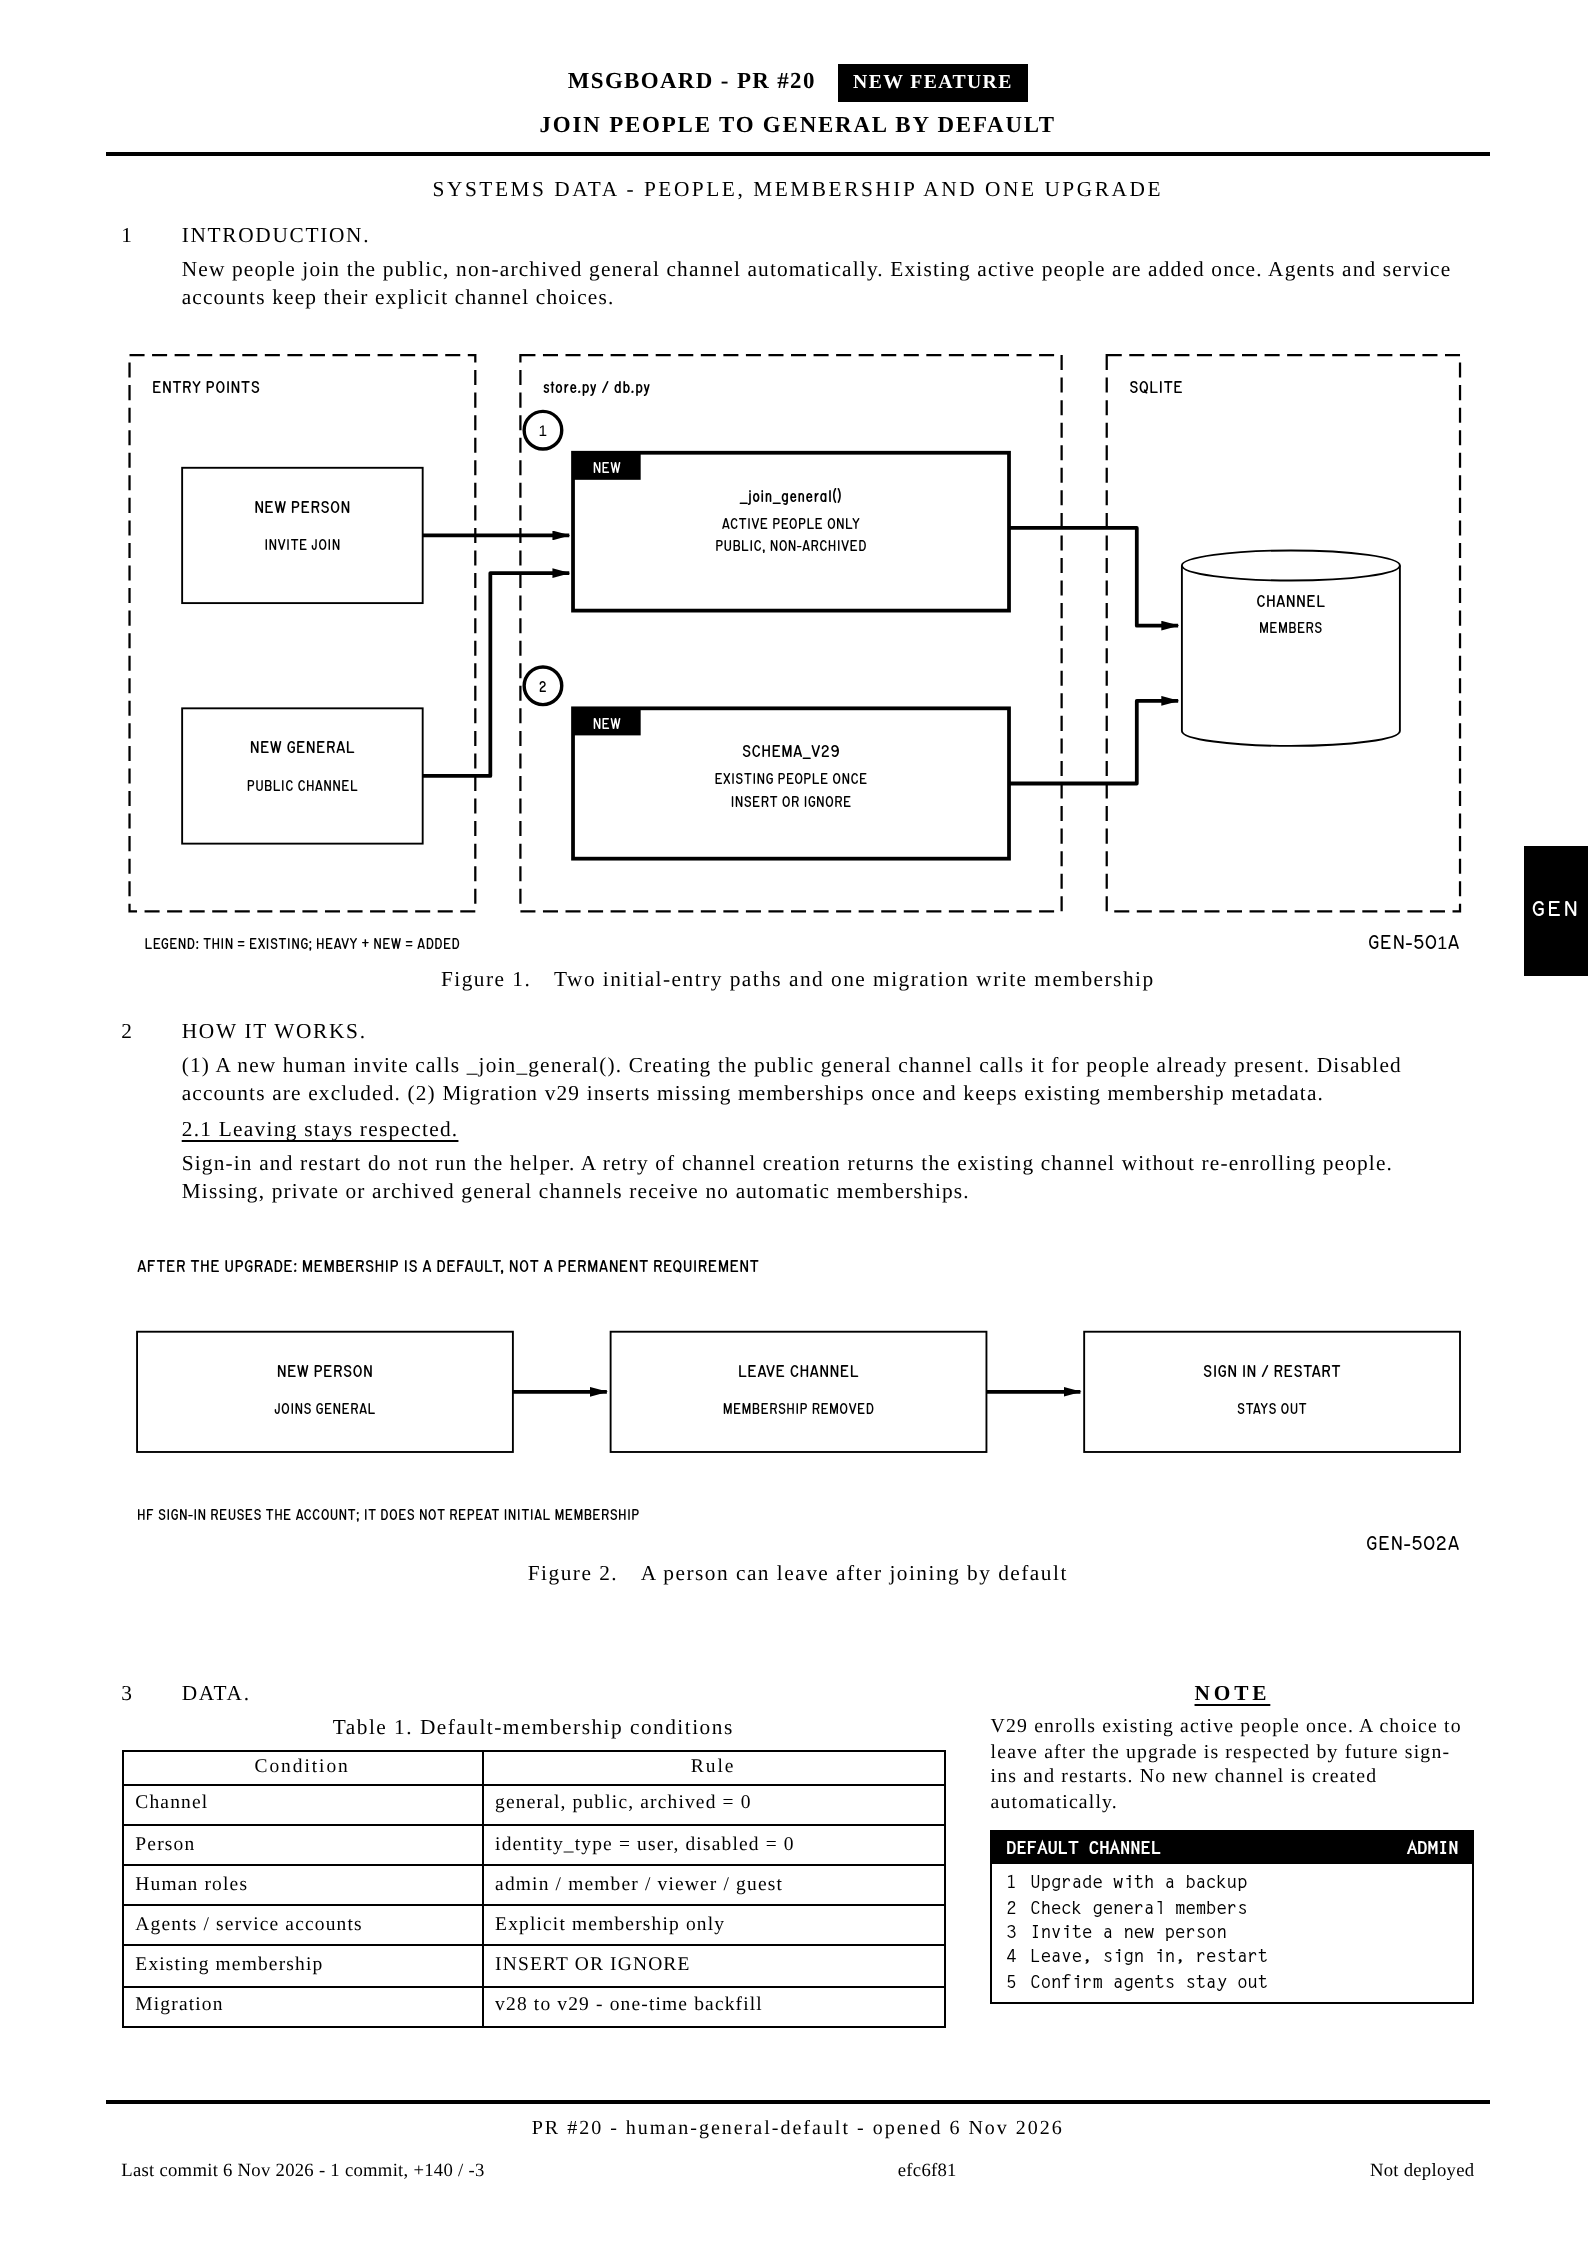
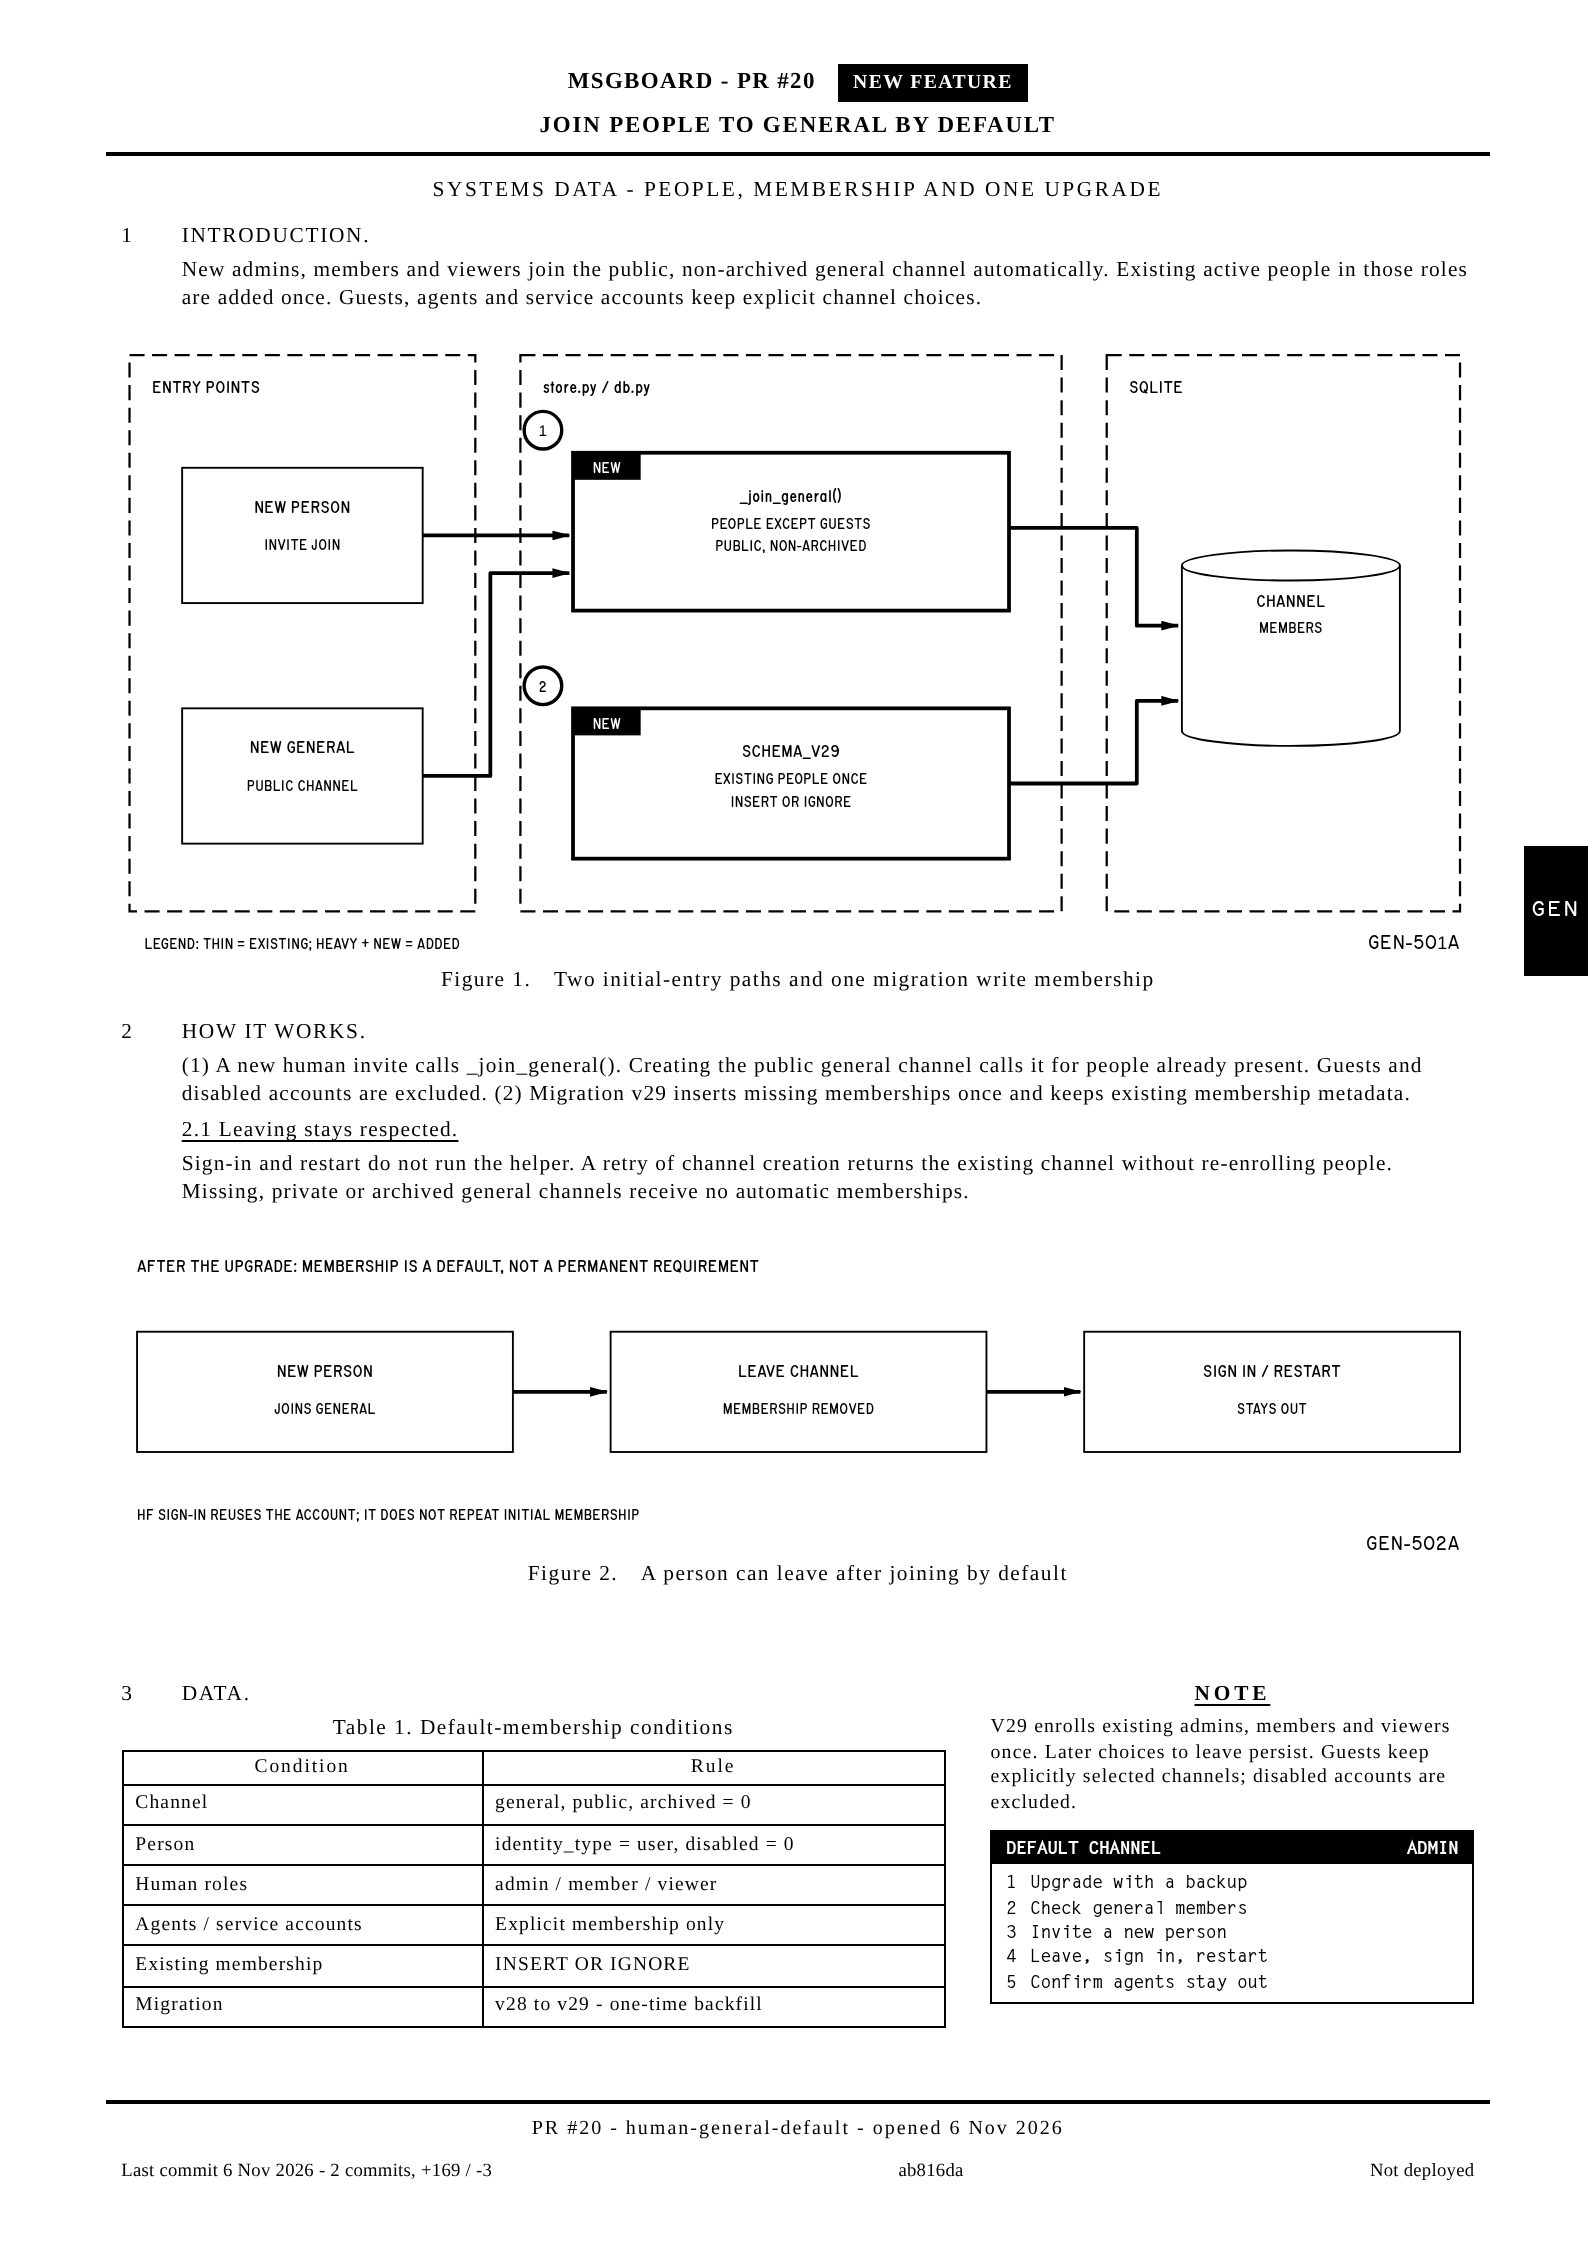
Clarify guest exclusion in PR 20 diagram

diff --git a/diagram/pr-20.html b/diagram/pr-20.html
@@ -142,12 +142,12 @@ html,body {background:#fff} :root{--paper:#fff} .head .tag{background:#000;color
 
 <div class="page"><header class="head"><div class="doc">MSGBOARD - PR #20 <span class="tag">NEW FEATURE</span></div><div class="title" style="margin-top:2mm">JOIN PEOPLE TO GENERAL BY DEFAULT</div><div class="rule"></div></header><div class="tab">GEN</div>
 <div class="opener">SYSTEMS DATA - PEOPLE, MEMBERSHIP AND ONE UPGRADE</div>
-<section class="para"><div class="num">1</div><div><h2>INTRODUCTION.</h2><p>New people join the public, non-archived general channel automatically. Existing active people are added once. Agents and service accounts keep their explicit channel choices.</p></div></section>
-<figure><svg viewBox="0 0 180 83" role="img" aria-label="Initial general membership and one-time backfill"><rect class="panel" x="1" y="2" width="46" height="74"/><text class="lbl" x="4" y="7" text-anchor="start">ENTRY POINTS</text><rect class="panel" x="53" y="2" width="72" height="74"/><text class="lbl" x="56" y="7" text-anchor="start">store.py / db.py</text><rect class="panel" x="131" y="2" width="47" height="74"/><text class="lbl" x="134" y="7" text-anchor="start">SQLITE</text><rect class="box old" x="8" y="17" width="32" height="18"/><text class="lbl" x="24.0" y="23" text-anchor="middle">NEW PERSON</text><text class="lbl-s" x="24.0" y="28" text-anchor="middle">INVITE JOIN</text><rect class="box old" x="8" y="49" width="32" height="18"/><text class="lbl" x="24.0" y="55" text-anchor="middle">NEW GENERAL</text><text class="lbl-s" x="24.0" y="60" text-anchor="middle">PUBLIC CHANNEL</text><rect class="box new" x="60" y="15" width="58" height="21"/><rect x="60" y="15" width="9" height="3.6" fill="#000"/><text class="tag" x="64.5" y="17.7" text-anchor="middle">NEW</text><text class="lbl" x="89.0" y="21.5" text-anchor="middle">_join_general()</text><text class="lbl-s" x="89.0" y="25.1" text-anchor="middle">ACTIVE PEOPLE ONLY</text><text class="lbl-s" x="89.0" y="28.1" text-anchor="middle">PUBLIC, NON-ARCHIVED</text><circle class="box" cx="56" cy="12" r="2.5"/><text class="lbl-s" x="56" y="12.8" text-anchor="middle">1</text><rect class="box new" x="60" y="49" width="58" height="20"/><rect x="60" y="49" width="9" height="3.6" fill="#000"/><text class="tag" x="64.5" y="51.7" text-anchor="middle">NEW</text><text class="lbl" x="89.0" y="55.5" text-anchor="middle">SCHEMA_V29</text><text class="lbl-s" x="89.0" y="59.1" text-anchor="middle">EXISTING PEOPLE ONCE</text><text class="lbl-s" x="89.0" y="62.1" text-anchor="middle">INSERT OR IGNORE</text><circle class="box" cx="56" cy="46" r="2.5"/><text class="lbl-s" x="56" y="46.8" text-anchor="middle">2</text><path class="box old" d="M141,30 L141,52 A14.5,2 0 0 0 170,52 L170,30"/><ellipse class="box old" cx="155.5" cy="30" rx="14.5" ry="2"/><text class="lbl" x="155.5" y="35.5" text-anchor="middle">CHANNEL</text><text class="lbl-s" x="155.5" y="39" text-anchor="middle">MEMBERS</text><polyline class="wa" style="stroke-width:.5" points="40,26 59.5,26"/><polyline class="wa" style="stroke-width:.5" points="40,58 49,58 49,31 59.5,31"/><polyline class="wa" style="stroke-width:.5" points="118,25 135,25 135,38 140.5,38"/><polyline class="wa" style="stroke-width:.5" points="118,59 135,59 135,48 140.5,48"/><text class="lbl-s" x="3" y="81" text-anchor="start">LEGEND: THIN = EXISTING; HEAVY + NEW = ADDED</text><text class="code" x="178" y="81" text-anchor="end">GEN-501A</text></svg><figcaption><span class="n">Figure 1.</span>Two initial-entry paths and one migration write membership</figcaption></figure>
-<section class="para" style="margin-top:3mm"><div class="num">2</div><div><h2>HOW IT WORKS.</h2><p>(1) A new human invite calls _join_general(). Creating the public general channel calls it for people already present. Disabled accounts are excluded. (2) Migration v29 inserts missing memberships once and keeps existing membership metadata.</p><h3>2.1 Leaving stays respected.</h3><p>Sign-in and restart do not run the helper. A retry of channel creation returns the existing channel without re-enrolling people. Missing, private or archived general channels receive no automatic memberships.</p></div></section>
+<section class="para"><div class="num">1</div><div><h2>INTRODUCTION.</h2><p>New admins, members and viewers join the public, non-archived general channel automatically. Existing active people in those roles are added once. Guests, agents and service accounts keep explicit channel choices.</p></div></section>
+<figure><svg viewBox="0 0 180 83" role="img" aria-label="Initial general membership and one-time backfill"><rect class="panel" x="1" y="2" width="46" height="74"/><text class="lbl" x="4" y="7" text-anchor="start">ENTRY POINTS</text><rect class="panel" x="53" y="2" width="72" height="74"/><text class="lbl" x="56" y="7" text-anchor="start">store.py / db.py</text><rect class="panel" x="131" y="2" width="47" height="74"/><text class="lbl" x="134" y="7" text-anchor="start">SQLITE</text><rect class="box old" x="8" y="17" width="32" height="18"/><text class="lbl" x="24.0" y="23" text-anchor="middle">NEW PERSON</text><text class="lbl-s" x="24.0" y="28" text-anchor="middle">INVITE JOIN</text><rect class="box old" x="8" y="49" width="32" height="18"/><text class="lbl" x="24.0" y="55" text-anchor="middle">NEW GENERAL</text><text class="lbl-s" x="24.0" y="60" text-anchor="middle">PUBLIC CHANNEL</text><rect class="box new" x="60" y="15" width="58" height="21"/><rect x="60" y="15" width="9" height="3.6" fill="#000"/><text class="tag" x="64.5" y="17.7" text-anchor="middle">NEW</text><text class="lbl" x="89.0" y="21.5" text-anchor="middle">_join_general()</text><text class="lbl-s" x="89.0" y="25.1" text-anchor="middle">PEOPLE EXCEPT GUESTS</text><text class="lbl-s" x="89.0" y="28.1" text-anchor="middle">PUBLIC, NON-ARCHIVED</text><circle class="box" cx="56" cy="12" r="2.5"/><text class="lbl-s" x="56" y="12.8" text-anchor="middle">1</text><rect class="box new" x="60" y="49" width="58" height="20"/><rect x="60" y="49" width="9" height="3.6" fill="#000"/><text class="tag" x="64.5" y="51.7" text-anchor="middle">NEW</text><text class="lbl" x="89.0" y="55.5" text-anchor="middle">SCHEMA_V29</text><text class="lbl-s" x="89.0" y="59.1" text-anchor="middle">EXISTING PEOPLE ONCE</text><text class="lbl-s" x="89.0" y="62.1" text-anchor="middle">INSERT OR IGNORE</text><circle class="box" cx="56" cy="46" r="2.5"/><text class="lbl-s" x="56" y="46.8" text-anchor="middle">2</text><path class="box old" d="M141,30 L141,52 A14.5,2 0 0 0 170,52 L170,30"/><ellipse class="box old" cx="155.5" cy="30" rx="14.5" ry="2"/><text class="lbl" x="155.5" y="35.5" text-anchor="middle">CHANNEL</text><text class="lbl-s" x="155.5" y="39" text-anchor="middle">MEMBERS</text><polyline class="wa" style="stroke-width:.5" points="40,26 59.5,26"/><polyline class="wa" style="stroke-width:.5" points="40,58 49,58 49,31 59.5,31"/><polyline class="wa" style="stroke-width:.5" points="118,25 135,25 135,38 140.5,38"/><polyline class="wa" style="stroke-width:.5" points="118,59 135,59 135,48 140.5,48"/><text class="lbl-s" x="3" y="81" text-anchor="start">LEGEND: THIN = EXISTING; HEAVY + NEW = ADDED</text><text class="code" x="178" y="81" text-anchor="end">GEN-501A</text></svg><figcaption><span class="n">Figure 1.</span>Two initial-entry paths and one migration write membership</figcaption></figure>
+<section class="para" style="margin-top:3mm"><div class="num">2</div><div><h2>HOW IT WORKS.</h2><p>(1) A new human invite calls _join_general(). Creating the public general channel calls it for people already present. Guests and disabled accounts are excluded. (2) Migration v29 inserts missing memberships once and keeps existing membership metadata.</p><h3>2.1 Leaving stays respected.</h3><p>Sign-in and restart do not run the helper. A retry of channel creation returns the existing channel without re-enrolling people. Missing, private or archived general channels receive no automatic memberships.</p></div></section>
 <figure><svg viewBox="0 0 180 43" role="img" aria-label="Leaving survives sign-in and restart"><text class="lbl" x="2" y="5" text-anchor="start">AFTER THE UPGRADE: MEMBERSHIP IS A DEFAULT, NOT A PERMANENT REQUIREMENT</text><rect class="box old" x="2" y="13" width="50" height="16"/><text class="lbl" x="27" y="19" text-anchor="middle">NEW PERSON</text><text class="lbl-s" x="27" y="24" text-anchor="middle">JOINS GENERAL</text><rect class="box old" x="65" y="13" width="50" height="16"/><text class="lbl" x="90" y="19" text-anchor="middle">LEAVE CHANNEL</text><text class="lbl-s" x="90" y="24" text-anchor="middle">MEMBERSHIP REMOVED</text><rect class="box old" x="128" y="13" width="50" height="16"/><text class="lbl" x="153" y="19" text-anchor="middle">SIGN IN / RESTART</text><text class="lbl-s" x="153" y="24" text-anchor="middle">STAYS OUT</text><polyline class="wa" style="stroke-width:.5" points="52,21 64.5,21"/><polyline class="wa" style="stroke-width:.5" points="115,21 127.5,21"/><text class="lbl-s" x="2" y="38" text-anchor="start">HF SIGN-IN REUSES THE ACCOUNT; IT DOES NOT REPEAT INITIAL MEMBERSHIP</text><text class="code" x="178" y="42" text-anchor="end">GEN-502A</text></svg><figcaption><span class="n">Figure 2.</span>A person can leave after joining by default</figcaption></figure>
-<div class="lower"><div><section class="para"><div class="num">3</div><div><h2>DATA.</h2></div></section><div class="tcap">Table 1. Default-membership conditions</div><table><thead><tr><th>Condition</th><th>Rule</th></tr></thead><tbody><tr><td>Channel</td><td>general, public, archived = 0</td></tr><tr><td>Person</td><td>identity_type = user, disabled = 0</td></tr><tr><td>Human roles</td><td>admin / member / viewer / guest</td></tr><tr><td>Agents / service accounts</td><td>Explicit membership only</td></tr><tr><td>Existing membership</td><td>INSERT OR IGNORE</td></tr><tr><td>Migration</td><td>v28 to v29 - one-time backfill</td></tr></tbody></table></div><div><div class="notice"><span class="tag">NOTE</span><p>V29 enrolls existing active people once. A choice to leave after the upgrade is respected by future sign-ins and restarts. No new channel is created automatically.</p></div><div class="card"><div class="bar"><span>DEFAULT CHANNEL</span><span>ADMIN</span></div><ol><li><span>1</span><span>Upgrade with a backup</span></li><li><span>2</span><span>Check general members</span></li><li><span>3</span><span>Invite a new person</span></li><li><span>4</span><span>Leave, sign in, restart</span></li><li><span>5</span><span>Confirm agents stay out</span></li></ol></div></div></div>
-<footer class="foot"><div class="rule"></div><div class="sub">PR #20 - human-general-default - opened 6 Nov 2026</div><div class="line"><span>Last commit 6 Nov 2026 - 1 commit, +140 / -3</span><span>efc6f81</span><span>Not deployed</span></div></footer></div>
+<div class="lower"><div><section class="para"><div class="num">3</div><div><h2>DATA.</h2></div></section><div class="tcap">Table 1. Default-membership conditions</div><table><thead><tr><th>Condition</th><th>Rule</th></tr></thead><tbody><tr><td>Channel</td><td>general, public, archived = 0</td></tr><tr><td>Person</td><td>identity_type = user, disabled = 0</td></tr><tr><td>Human roles</td><td>admin / member / viewer</td></tr><tr><td>Agents / service accounts</td><td>Explicit membership only</td></tr><tr><td>Existing membership</td><td>INSERT OR IGNORE</td></tr><tr><td>Migration</td><td>v28 to v29 - one-time backfill</td></tr></tbody></table></div><div><div class="notice"><span class="tag">NOTE</span><p>V29 enrolls existing admins, members and viewers once. Later choices to leave persist. Guests keep explicitly selected channels; disabled accounts are excluded.</p></div><div class="card"><div class="bar"><span>DEFAULT CHANNEL</span><span>ADMIN</span></div><ol><li><span>1</span><span>Upgrade with a backup</span></li><li><span>2</span><span>Check general members</span></li><li><span>3</span><span>Invite a new person</span></li><li><span>4</span><span>Leave, sign in, restart</span></li><li><span>5</span><span>Confirm agents stay out</span></li></ol></div></div></div>
+<footer class="foot"><div class="rule"></div><div class="sub">PR #20 - human-general-default - opened 6 Nov 2026</div><div class="line"><span>Last commit 6 Nov 2026 - 2 commits, +169 / -3</span><span>ab816da</span><span>Not deployed</span></div></footer></div>
 <script>
   // Fit check: room left between the last content block and the footer.
   // .page hides overflow, so without this an overfull page fails silently.
